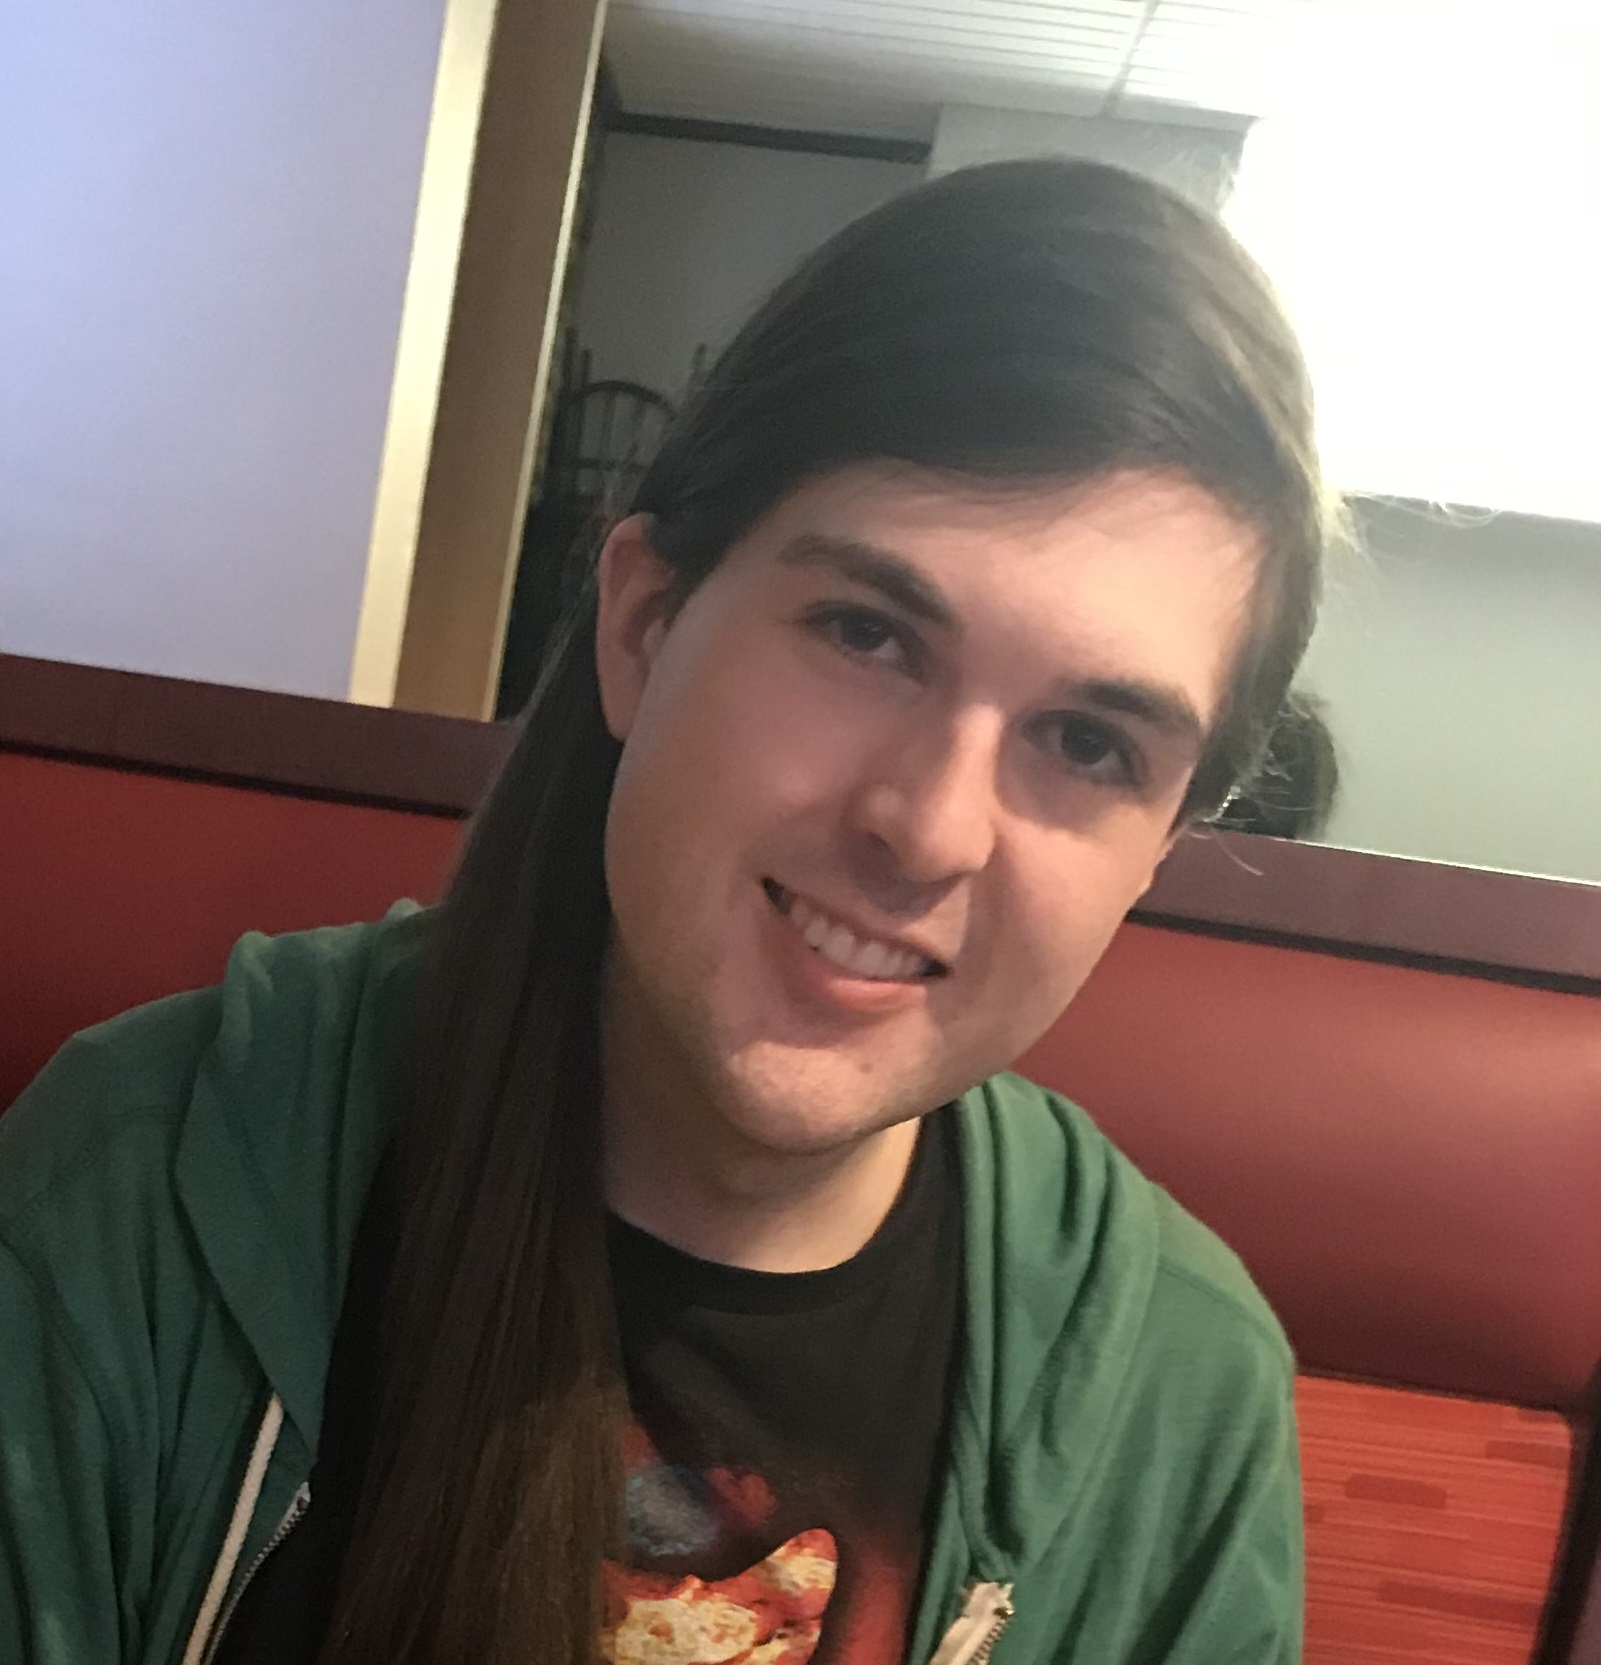
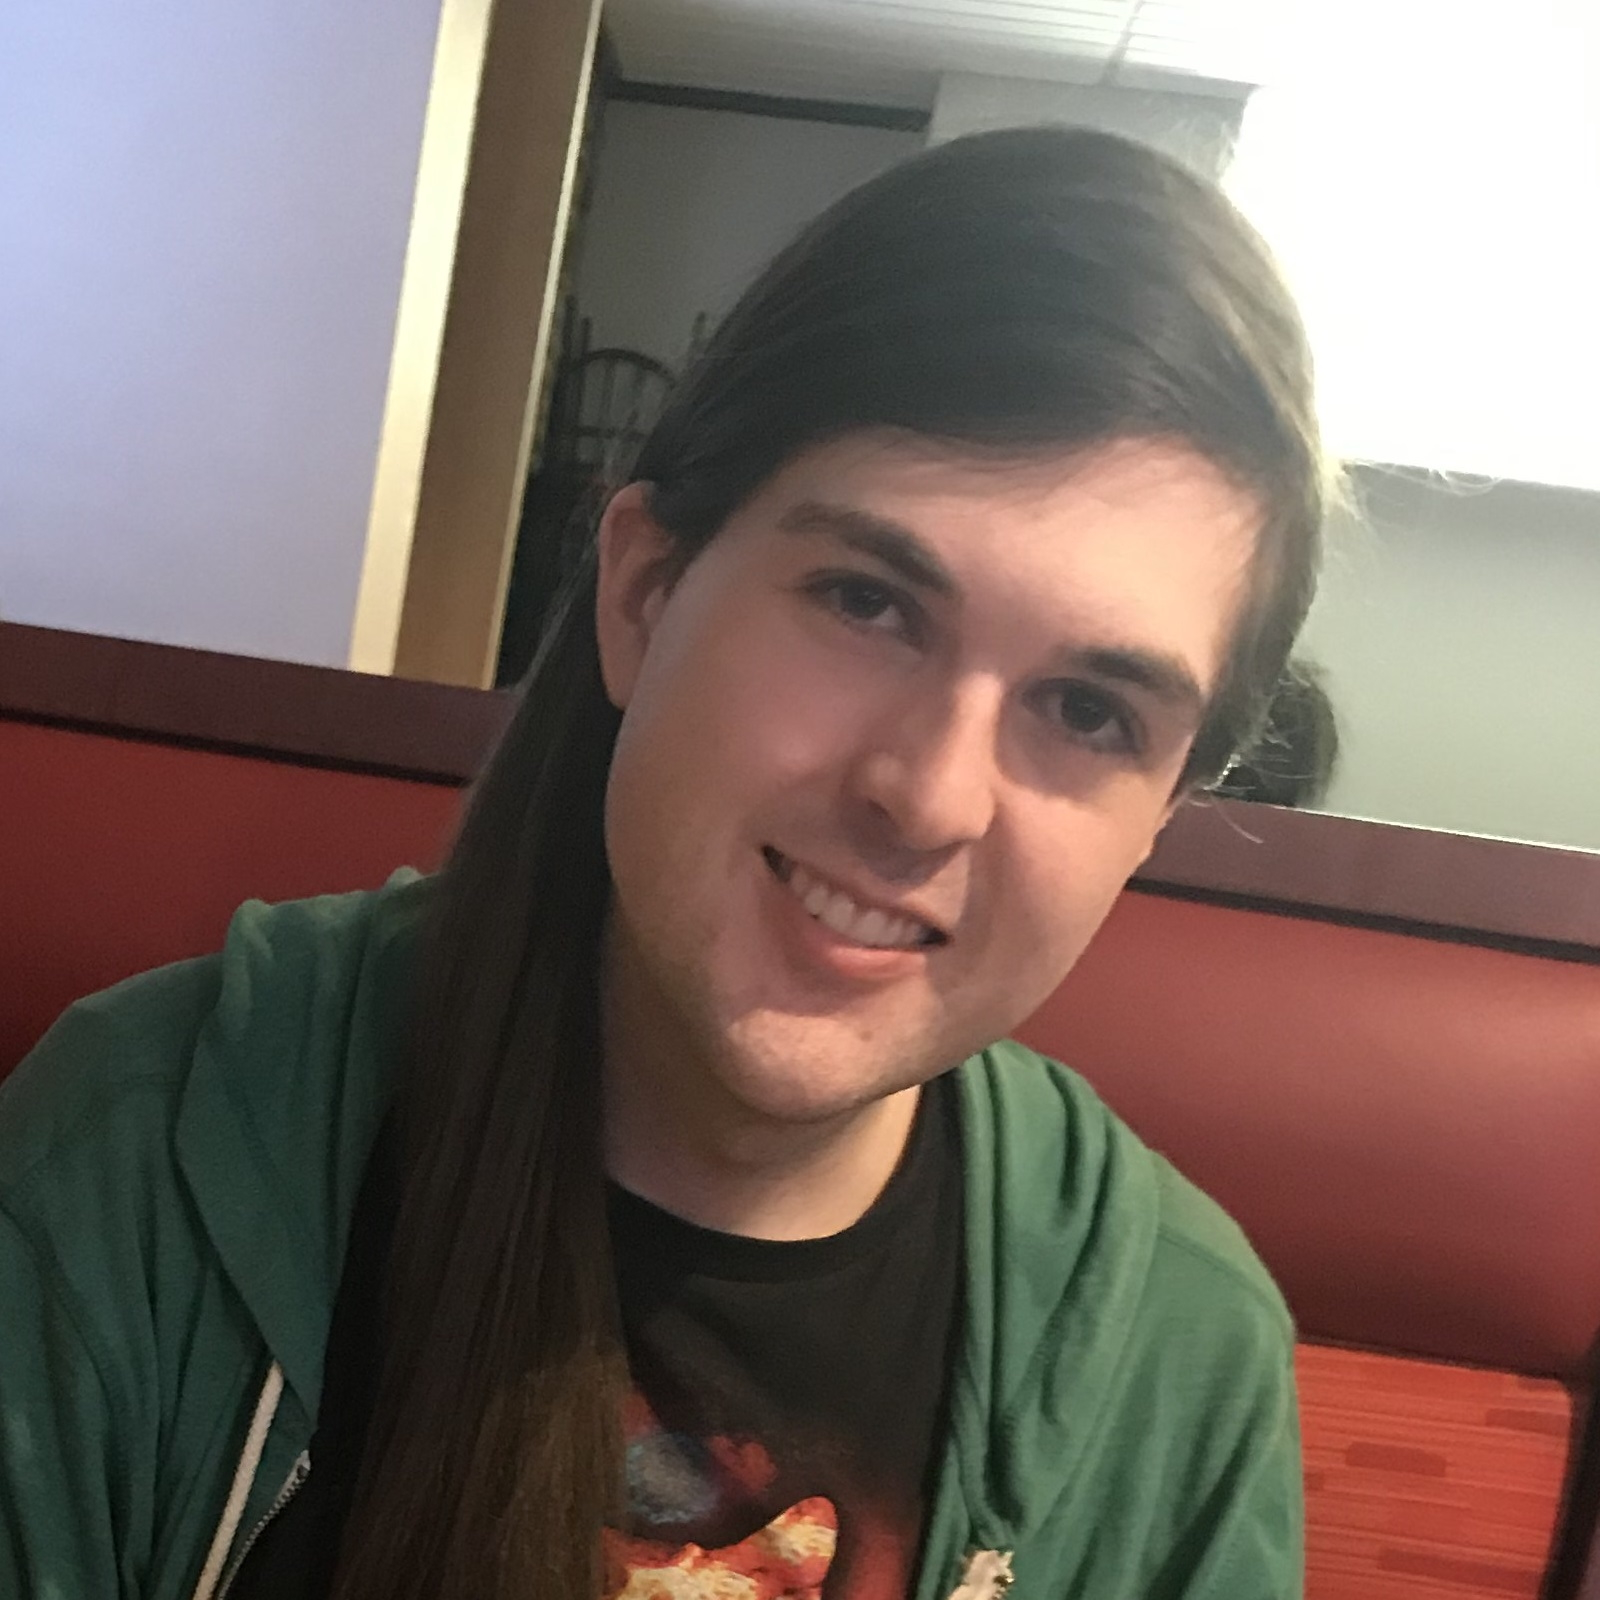
Updated About page, animations, and jpg's

diff --git a/src/components/About.js b/src/components/About.js
@@ -2,8 +2,8 @@ import React, {Component, Fragment} from 'react';
 import {FadeTransform, Fade, Transform} from 'react-animation-components';
 import { Col, Container, Row } from 'reactstrap';
 
-const AVATAR_SRC = "/avatar_small.jpeg";
-const LILY_SRC = "/lily.jpg";
+const AVATAR_SRC = "/avatar_md.jpg";
+const LILY_SRC = "/lily_md.jpg";
 
 function RenderAvatar() {
     return (
@@ -18,18 +18,59 @@ function RenderAvatar() {
 }
 function RenderText() {
     return (
-        <p>Hello worlds!</p>
+        <Fragment>
+            <p>
+                <h3>Hello world!</h3>
+                <ul>
+                    <h5>
+                        Sean Mussack at a glance:
+                    </h5>
+                    <li>
+                        Location: Minneapolis, MN, USA
+                    </li>
+                    <li>
+                        Pronouns: they/them or she/her
+                    </li>
+                    <li>
+                        Pet: Lily the rabbit
+                    </li>
+                </ul>
+                <ul>
+                    <h5>
+                        Things I Love:
+                    </h5>
+                    <li>
+                        Animals
+                    </li>
+                    <li>
+                        Pixel Art
+                    </li>
+                    <li>
+                        World History
+                    </li>
+                </ul>
+            </p>
+        </Fragment>
     );
 }
 function RenderLily() {
     return (
-        <div className="d-flex justify-content-center">
-            <img 
-                className="lily"
-                src={LILY_SRC}
-                alt="My rabbit, Lily, who has white fur with black ears and eyes"
-            />
-        </div>
+        <Fragment>
+            <div className="d-none d-sm-flex justify-content-center">
+                <img 
+                    className="lily"
+                    src={LILY_SRC}
+                    alt="My rabbit, Lily, who has white fur with black ears and eyes"
+                />
+            </div>
+            <div className="d-flex d-sm-none">
+                <img
+                    className="lily position-absolute bottom-0 end-0 mb-5"
+                    src={LILY_SRC}
+                    alt="My rabbit, Lily, who has white fur with black ears and eyes"
+                />
+            </div>
+        </Fragment>
     );
 }
 

diff --git a/src/App.css b/src/App.css
@@ -1,15 +1,17 @@
 /*entire app*/
 body {
 /*  overflow: hidden;//removes scrollbar*/
+  max-height: fit-content;
 }
 .App {
-  background-color: #111111;
   min-height: 100vh;
-  max-height: fit-content;
+  background-color: #111111;
+  color: whitesmoke;
 }
 
 /*navbar*/
 .navbar {
+  height: 90px;
 /*  background-color: #113366;*/
   background-color: black;
   text-align: center;
@@ -90,6 +92,9 @@ body {
   .page-button:hover .fa-angle-right {
     animation: Arrow-icon-hover infinite 1s linear;
   }
+  .page-button:active {
+    animation: Page-button-on-press 1s linear;
+  }
 }
 @keyframes Arrow-icon-hover {
   from {
@@ -99,14 +104,24 @@ body {
     transform: translateX(20vw);
   }
 }
+@keyframes Page-button-on-press {
+  from {
+    transform: translateX(0vw);
+  }
+  to {
+    transform: translateX(150vw);
+  }
+}
 
 /*about page*/
 .about-page-container {
   text-align: center;
   padding-top: 30px;
+  overflow: hidden;
+  max-height: calc(100vh - 90px);
 }
 .avatar, .lily {
-  border-radius: 40vh;
+  border-radius: 200px;
 }
 .avatar {
   width: 30vh;
@@ -115,8 +130,17 @@ body {
   border-style: solid;
 }
 .about-page-container p {
-  padding: 15vmin 0vmin;
-  font-size: larger;
+  padding: 10vh 0vmin;
+}
+.about-page-container h3 {
+  font-variant: small-caps;
+  margin-bottom: 5vh;
+}
+.about-page-container h5 {
+  font-weight: bold;
+}
+.about-page-container ul {
+  text-align: left;
 }
 .lily {
   width: 20vh;
@@ -126,8 +150,11 @@ body {
   .avatar {
     animation: Avatar-float-around infinite 15s ease-in-out;
   }
-  .lily {
+  .d-sm-flex .lily {
     animation: Lily-float-around infinite 20s ease-in-out;
+  }
+  .d-sm-none .lily {
+    animation: Lily-spin infinite 20s linear;
   }
 }
 @keyframes Avatar-float-around {
@@ -150,6 +177,14 @@ body {
   }
   to {
     transform: translateY(0vw);
+  }
+}
+@keyframes Lily-spin {
+  from {
+    transform: rotate(0deg);
+  }
+  to {
+    transform: rotate(360deg);
   }
 }
 
